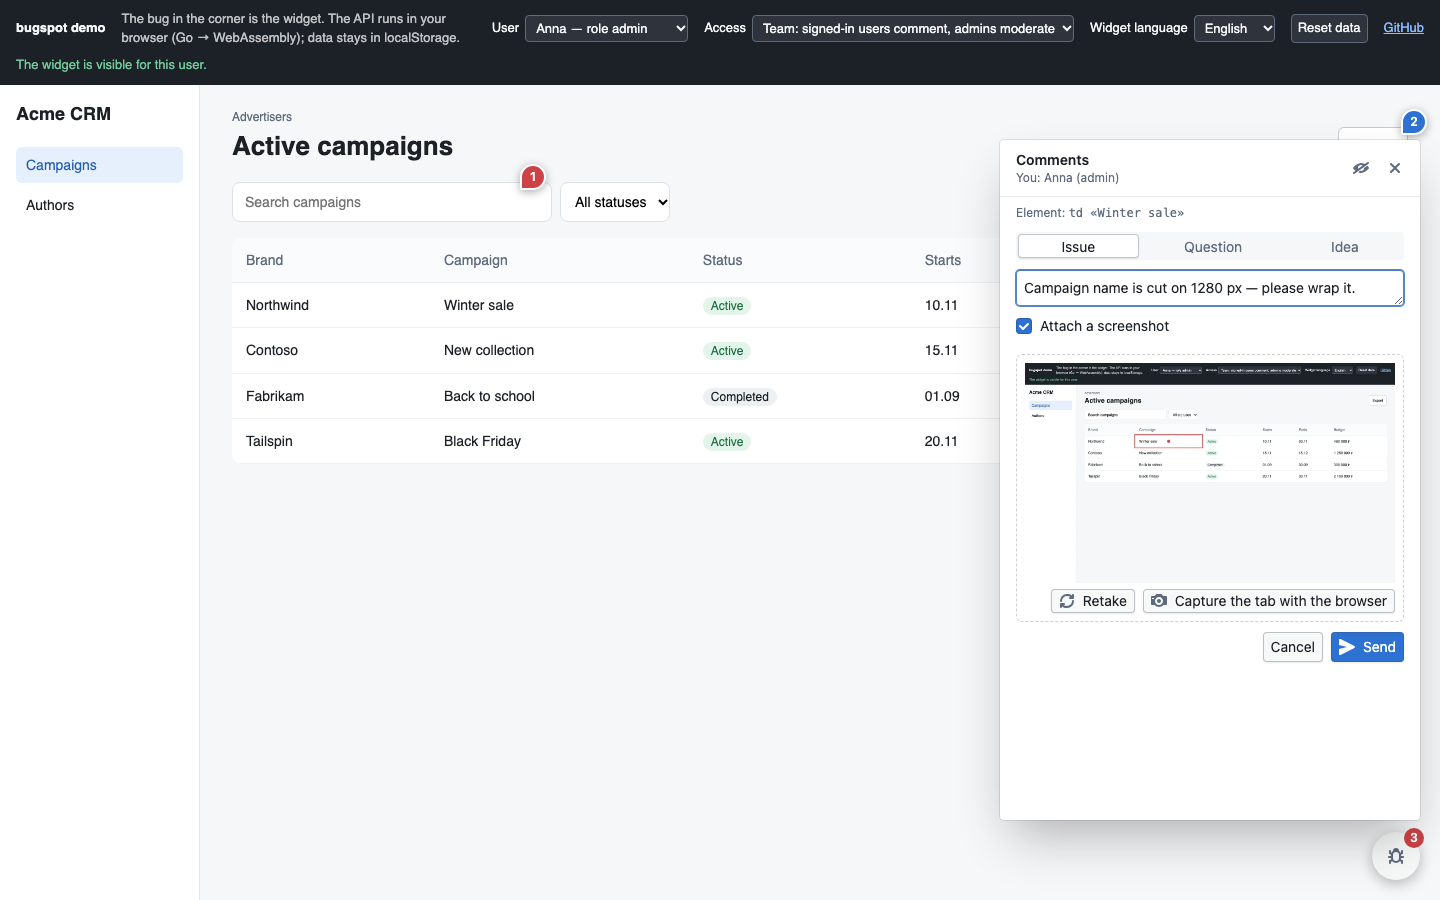
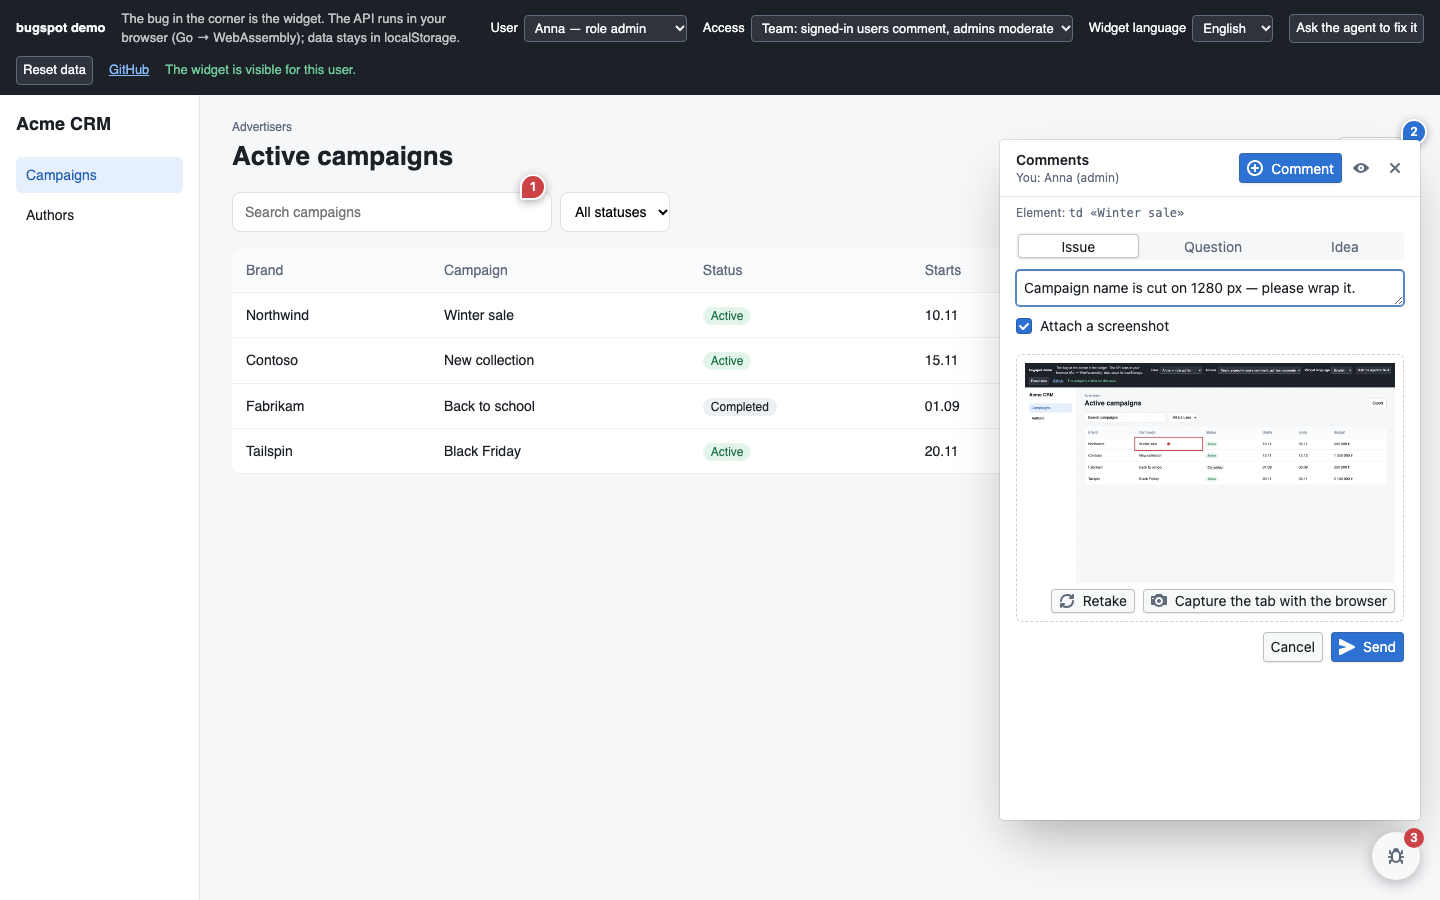
docs: demo GIF, MCP and the new widget actions

diff --git a/README.ru.md b/README.ru.md
@@ -17,7 +17,7 @@
 
 [English version](README.md)
 
-![Панель с комментариями и метки на странице](docs/images/panel.png)
+![Человек оставляет комментарий, агент исправляет через MCP, человек проверяет и закрывает](docs/images/demo.gif)
 
 ## Что умеет
 
@@ -27,10 +27,13 @@
 - **Контекст сам собой.** Скриншот видимой части страницы с обведённым элементом (или снимок
   вкладки средствами браузера), браузер и размер окна, версия приложения, последние ошибки консоли
   и неудачные запросы (с `X-Request-ID`; значения параметров запроса отбрасываются).
-- **Работа с замечаниями.** Открыт → в работе → исправлен → решён, или отклонён. Ответы, правка,
-  удаление, поиск, «эта страница» и «все», метки можно скрыть, кнопку можно перетащить.
-- **Агенты — полноправные участники.** Токены с правами, CLI (`bugspot threads list/show/reply/status/screenshot`)
-  и обычный REST API. Агент доводит до «исправлен», закрывает только человек.
+- **Работа с замечаниями.** Открыт → в работе → исправлен → решён, или отклонён, и отдельная
+  отметка «проверено человеком». Ответы, правка по клику на текст, поиск, «эта страница» и «все»,
+  метки можно скрыть, «показать на странице» с короткой подсветкой, кнопку можно перетащить.
+- **Комментарий в один клик.** Правый клик (или Alt+клик) по жучку — и сразу выбор элемента, панель
+  откроется уже с формой; обычный клик по-прежнему открывает панель.
+- **Агенты — полноправные участники.** MCP-сервер (`bugspot mcp`), токены с правами, CLI и обычный
+  REST API. Агент доводит до «исправлен», проверяет и закрывает только человек.
 - **Гибкий доступ.** Пользователь из сессии вашего приложения (`forward`), из JWT, из заголовков
   доверенного прокси, по ссылке с ключом доступа или анонимно — в любом сочетании, с правилами
   «видеть / писать / модерировать» по ролям и пользователям.
@@ -42,6 +45,8 @@
 
 Виджет — React и [Blueprint](https://blueprintjs.com) внутри Shadow DOM: стили приложения он не
 ломает и не наследует.
+
+![Панель с комментариями и метки на странице](docs/images/panel.png)
 
 ## Подключение
 
@@ -148,6 +153,25 @@ location /bugspot/ {
 Другие рецепты (JWT на Go и Node, oauth2-proxy, другой домен, Traefik, Vite): [docs/integration.md](docs/integration.md).
 
 ## Агенты
+
+### MCP
+
+`bugspot mcp` — MCP-сервер на stdio с инструментами `list_threads`, `get_thread`, `get_screenshot`
+(сама картинка), `reply`, `set_status` и `summary`. Он работает через API с токеном агента, поэтому
+у агента ровно те права, что у токена.
+
+```sh
+# Claude Code
+claude mcp add bugspot --env BUGSPOT_URL=https://app.example.com/bugspot --env BUGSPOT_TOKEN=bsp_… -- bugspot mcp
+# без локального бинарника
+claude mcp add bugspot -- docker run -i --rm -e BUGSPOT_URL=… -e BUGSPOT_TOKEN=… ghcr.io/svyatoslavratov/bugspot mcp
+```
+
+Дальше: *«Почини открытые комментарии bugspot»* — агент получает список, смотрит скриншоты, берёт
+комментарий в работу, правит код, отвечает и ставит «исправлен». Человек проверяет, ставит отметку
+«проверено» и закрывает.
+
+### CLI
 
 ```sh
 # рядом с сервисом: создать токен (показывается один раз, хранится только хеш)

diff --git a/README.md b/README.md
@@ -17,7 +17,7 @@ your app's own login.
 
 [Русская версия](README.ru.md)
 
-![The panel with threads and pins on the page](docs/images/panel.png)
+![A person comments, the agent fixes over MCP, a person checks and resolves](docs/images/demo.gif)
 
 ## Features
 
@@ -27,10 +27,13 @@ your app's own login.
 - **Context for free.** A screenshot of the visible page with the element marked (or a real tab
   capture), browser and window size, app version, the last console errors and failed requests
   (with `X-Request-ID`; query values are dropped).
-- **A workflow.** Open → in progress → fixed → resolved, or declined. Replies, edit, delete, search,
-  this page / all pages, pins on and off, a draggable button.
-- **Agents are first-class.** Agent tokens with scopes, a CLI (`bugspot threads list/show/reply/status/screenshot`)
-  and a plain REST API. Agents move threads to *fixed*; only people resolve them.
+- **A workflow.** Open → in progress → fixed → resolved, or declined, plus a separate *checked by a
+  person* box. Replies, editing by clicking the text, search, this page / all pages, pins on and off,
+  "show on the page" with a short highlight, a draggable button.
+- **One click to comment.** Right-click (or Alt+click) the bug and pick an element — the panel opens
+  with the form; a plain click still opens the panel.
+- **Agents are first-class.** An MCP server (`bugspot mcp`), agent tokens with scopes, a CLI and a
+  plain REST API. Agents move threads to *fixed*; only people check and resolve them.
 - **Flexible access.** Identity from your app's session (`forward`), a JWT, a trusted proxy header,
   share links with access keys, or anonymous — combined in any order, with view / comment /
   moderate rules by role or user.
@@ -41,6 +44,8 @@ your app's own login.
 
 The widget is React + [Blueprint](https://blueprintjs.com) inside a Shadow DOM, so it neither
 breaks nor inherits your styles.
+
+![The panel with threads and pins on the page](docs/images/panel.png)
 
 ## Quick start
 
@@ -154,6 +159,25 @@ Only the listed cookies are forwarded, only to that URL; answers are cached for 
 More recipes (JWT in Go and Node, oauth2-proxy, another domain): [docs/integration.md](docs/integration.md).
 
 ## Agents
+
+### MCP
+
+`bugspot mcp` is an MCP server on stdio with the tools `list_threads`, `get_thread`,
+`get_screenshot` (the image itself), `reply`, `set_status` and `summary`. It works through the API
+with an agent token, so the agent has exactly the token's rights.
+
+```sh
+# Claude Code
+claude mcp add bugspot --env BUGSPOT_URL=https://app.example.com/bugspot --env BUGSPOT_TOKEN=bsp_… -- bugspot mcp
+# without a local binary
+claude mcp add bugspot -- docker run -i --rm -e BUGSPOT_URL=… -e BUGSPOT_TOKEN=… ghcr.io/svyatoslavratov/bugspot mcp
+```
+
+Then: *"Fix the open bugspot comments"* — the agent lists them, looks at the screenshots, takes one
+into work, fixes the code, replies and sets *fixed*. A person checks the result, ticks *checked*
+and resolves.
+
+### CLI
 
 ```sh
 # next to the service: create a token (shown once; only its hash is stored)

diff --git a/CHANGELOG.md b/CHANGELOG.md
@@ -8,7 +8,10 @@ The first release.
   CLI for agent tokens, access keys and threads.
 - Identity providers `forward`, `jwt`, `header`, `key`, `anonymous` and a view / comment / moderate
   policy by role, user or provider.
-- Widget: a draggable bug, the panel (this page / all, statuses, search), pins on elements,
-  element picking, screenshots with the element marked, page context, replies and statuses,
-  English and Russian.
+- Widget: a draggable bug (right-click or Alt+click comments on an element at once), the panel
+  (this page / all, statuses, search, pins on and off), pins on elements, element picking,
+  screenshots with the element marked, page context, replies, statuses from the status tag, editing
+  by clicking the text, "show on the page" with a highlight, English and Russian.
+- "Checked by a person": a separate mark only people set; reopening clears it.
+- `bugspot mcp`: an MCP server for agents (list, read, screenshot, reply, move threads).
 - The GitHub Pages demo with the API compiled to WebAssembly.

diff --git a/docs/configuration.md b/docs/configuration.md
@@ -90,6 +90,7 @@ Keys are created with `bugspot key create --name "Customer" --roles customer --e
 | `bugspot threads reply N "text"` | answer as the agent |
 | `bugspot threads status N open\|in_progress\|fixed\|wontfix` | move a thread |
 | `bugspot threads screenshot N --out file` | download the screenshot |
+| `bugspot mcp` | an MCP server on stdio for agents (`BUGSPOT_URL`, `BUGSPOT_TOKEN`) |
 
 `token` and `key` work on the database directly, so run them where the service runs
 (`docker compose exec bugspot bugspot token create …`).
